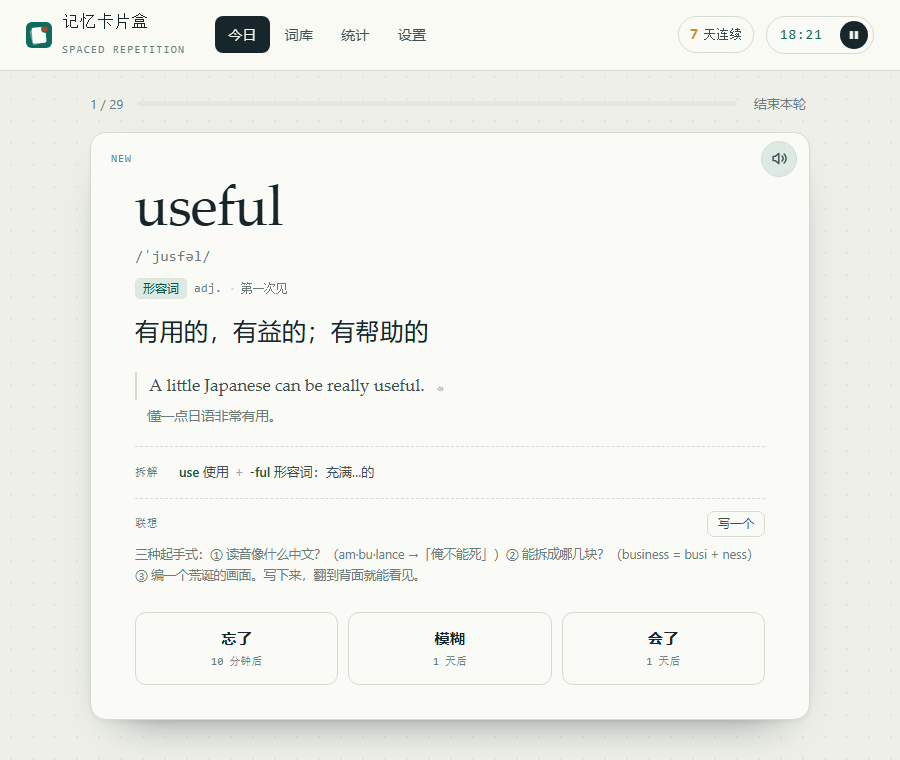
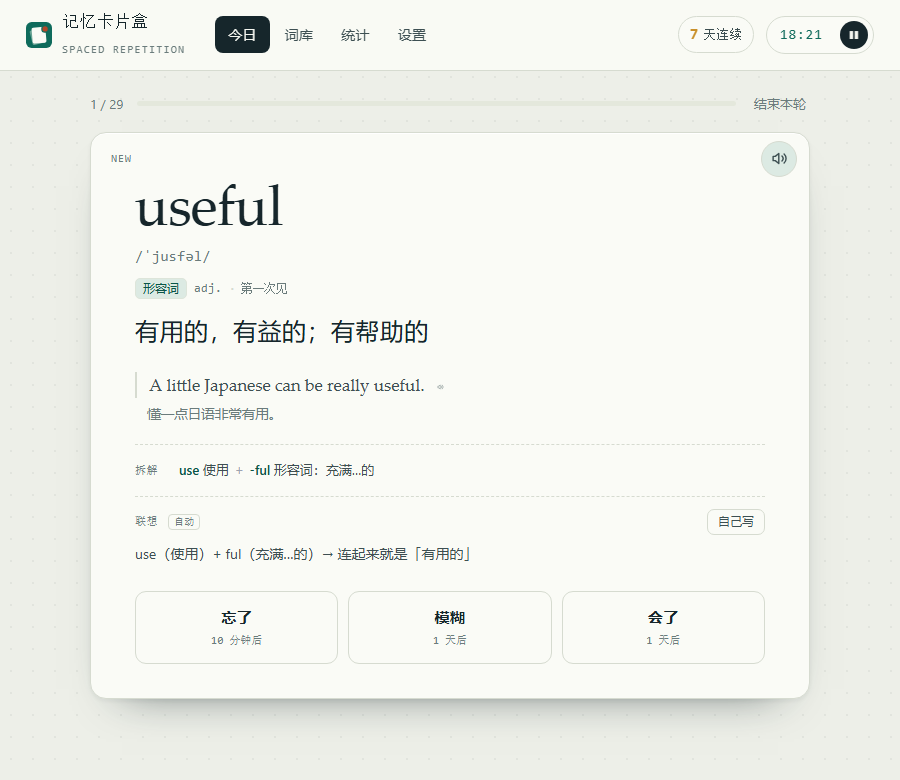
联想改为系统自动生成（拆解/词中词/同族），仍可自己改写

diff --git a/web/app.js b/web/app.js
@@ -1385,9 +1385,69 @@
     return s.length > 8 ? s.slice(0, 8) : s;
   }
 
-  /* ---------- 联想记忆：自己写的那句话 ---------- */
+  /* ---------- 联想记忆：系统自动写 + 你可以改 ---------- */
 
   let memoEditId = "";
+
+  /* 释义清洁：去掉词形表、括号补充，必须有中文 */
+  function cleanGloss(cn) {
+    let s = String(cn || "");
+    s = s.replace(/\[[^\]]*\]/g, " ");
+    s = s.replace(/\([^)]*\)/g, " ");
+    s = s.split(/[；;，,、]/)[0].trim();
+    if (!/[\u4e00-\u9fa5]/.test(s)) return "";
+    return s.length > 8 ? s.slice(0, 8) : s;
+  }
+
+  /* 词中词：这个词里藏着另一个认识的词 */
+  function innerWord(w) {
+    const id = w.id;
+    let best = null;
+    for (let len = Math.min(7, id.length - 2); len >= 3; len--) {
+      for (let i = 0; i + len <= id.length; i++) {
+        const sub = id.slice(i, i + len);
+        if (sub === id) continue;
+        const hit = MAP.get(sub);
+        if (!hit) continue;
+        const g = cleanGloss(hit.cn);
+        if (!g) continue;
+        const edge = i === 0 || i + len === id.length ? 1 : 0;
+        const score = len * 2 + edge;
+        if (!best || score > best.score) best = { sub: sub, cn: g, score: score };
+      }
+    }
+    return best;
+  }
+
+  /* 自动联想：把零件串成一句能记的话，而不是复述拆解表 */
+  function autoMemo(w) {
+    const mean = cleanGloss(w.cn);
+    const parts = splitWord(w);
+    if (parts && parts[0] && parts[1] && parts[0].g && parts[1].g) {
+      const g = (s) => cleanGloss(String(s).replace(/^(名词|动词|形容词|副词|介词|连词|代词)：/, ""));
+      const a = parts[0].t.replace(/-$/, "");
+      const b = parts[1].t.replace(/^-/, "");
+      return (
+        a + "（" + g(parts[0].g) + "）+ " + b + "（" + g(parts[1].g) + "）" +
+        "→ 连起来就是「" + (mean || w.cn) + "」"
+      );
+    }
+    const inner = innerWord(w);
+    if (inner) {
+      return (
+        "里面藏着 " + inner.sub + "（" + inner.cn + "）——先把熟悉的这块钉住，" +
+        "再记整词是「" + (mean || w.cn) + "」"
+      );
+    }
+    const fam = familyOf(w).filter((x) => cleanGloss(x.cn))[0];
+    if (fam) {
+      return (
+        "和 " + fam.w + "（" + cleanGloss(fam.cn) + "）长得很像——" +
+        "一个是「" + (mean || w.cn) + "」，一个是「" + cleanGloss(fam.cn) + "」，别混"
+      );
+    }
+    return "";
+  }
 
   function myMemo(w) {
     const m = (S.memo || {})[w.id];
@@ -1395,18 +1455,22 @@
   }
 
   const MEMO_HINT =
-    "三种起手式：① 读音像什么中文？（am·bu·lance →「俺不能死」）② 能拆成哪几块？（business = busi + ness）③ 编一个荒诞的画面。" +
-    "自己写的最管用——下次翻到背面会先看到它。";
+    "这个词没有能拆的结构，也没有熟悉的词藏在里面。" +
+    "试试谐音（读音像什么中文？），或者编一个荒诞的画面——点「改」自己写一句。";
 
   function fmemoHTML(w) {
-    const t = myMemo(w);
+    const mine = myMemo(w);
+    const auto = mine ? "" : autoMemo(w);
     return (
       '<div class="fmemo">' +
       '<div class="fmemo-head"><span class="fmemo-k">联想</span>' +
+      (mine ? '<span class="fmemo-tag">我的</span>' : auto ? '<span class="fmemo-tag">自动</span>' : "") +
       '<button class="fmemo-edit" data-act="memo-edit" data-id="' + esc(w.id) + '">' +
-      (t ? "改" : "写一个") + "</button></div>" +
-      (t
-        ? '<div class="fmemo-text">' + esc(t) + "</div>"
+      (mine ? "改" : "自己写") + "</button></div>" +
+      (mine
+        ? '<div class="fmemo-text">' + esc(mine) + "</div>"
+        : auto
+        ? '<div class="fmemo-text auto">' + esc(auto) + "</div>"
         : '<div class="fmemo-hint">' + MEMO_HINT + "</div>") +
       "</div>"
     );

diff --git a/miniapp/pages/study/study.js b/miniapp/pages/study/study.js
@@ -26,6 +26,60 @@ function posCN(pos) {
   return out.join("／");
 }
 
+/* ---------- 自动联想 ---------- */
+
+function cleanGloss(cn) {
+  var s = String(cn || "");
+  s = s.replace(/\[[^\]]*\]/g, " ");
+  s = s.replace(/\([^)]*\)/g, " ");
+  s = s.split(/[；;，,、]/)[0].trim();
+  if (!/[\u4e00-\u9fa5]/.test(s)) return "";
+  return s.length > 8 ? s.slice(0, 8) : s;
+}
+
+function innerWord(w) {
+  var id = w.id;
+  var best = null;
+  for (var len = Math.min(7, id.length - 2); len >= 3; len--) {
+    for (var i = 0; i + len <= id.length; i++) {
+      var sub = id.slice(i, i + len);
+      if (sub === id) continue;
+      var hit = store.map()[sub];
+      if (!hit) continue;
+      var g = cleanGloss(hit.cn);
+      if (!g) continue;
+      var edge = i === 0 || i + len === id.length ? 1 : 0;
+      var score = len * 2 + edge;
+      if (!best || score > best.score) best = { sub: sub, cn: g, score: score };
+    }
+  }
+  return best;
+}
+
+function autoMemo(w) {
+  var mean = cleanGloss(w.cn) || w.cn;
+  var parts = splitWord(w);
+  if (parts && parts[0] && parts[1] && parts[0].g && parts[1].g) {
+    var g = function (s) {
+      return cleanGloss(String(s).replace(/^(名词|动词|形容词|副词|介词|连词|代词)：/, ""));
+    };
+    var a = parts[0].t.replace(/-$/, "");
+    var b = parts[1].t.replace(/^-/, "");
+    return a + "（" + g(parts[0].g) + "）+ " + b + "（" + g(parts[1].g) + "）→ 连起来就是「" + mean + "」";
+  }
+  var inner = innerWord(w);
+  if (inner) {
+    return "里面藏着 " + inner.sub + "（" + inner.cn + "）——先把熟悉的这块钉住，再记整词是「" + mean + "」";
+  }
+  var fam = familyOf(w).filter(function (x) {
+    return cleanGloss(x.cn);
+  })[0];
+  if (fam) {
+    return "和 " + fam.w + "（" + cleanGloss(fam.cn) + "）长得很像——一个是「" + mean + "」，一个是「" + cleanGloss(fam.cn) + "」，别混";
+  }
+  return "";
+}
+
 /* ---------- 题型工具 ---------- */
 
 /* 释义太长不适合做选项：去掉内嵌词性、只留前两个义项、16 字截断 */
@@ -236,6 +290,7 @@ Page({
     hintCn: "",
     ipa: "",
     memoText: "",
+    memoAuto: "",
     posCn: "",
     posMeta: "",
     memoParts: [],
@@ -357,6 +412,7 @@ Page({
       pct: Math.round((s.done / Math.max(s.done + (s.q.length - s.idx), 1)) * 100),
       word: w.w,
       ipa: w.ipa || "",
+      memoAuto: autoMemo(w),
       memoText: store.getMemo(id),
       pos: w.pos,
       cn: w.cn,

diff --git a/web/style.css b/web/style.css
@@ -1440,6 +1440,19 @@ textarea {
   letter-spacing: 0.1em;
   color: var(--muted);
 }
+.fmemo-tag {
+  font-family: var(--font-mono);
+  font-size: 9.5px;
+  letter-spacing: 0.06em;
+  color: var(--muted);
+  border: 1px solid var(--line);
+  border-radius: 4px;
+  padding: 0 5px;
+  line-height: 1.5;
+}
+.fmemo-text.auto {
+  color: var(--ink-2);
+}
 .fmemo-edit {
   margin-left: auto;
   appearance: none;
